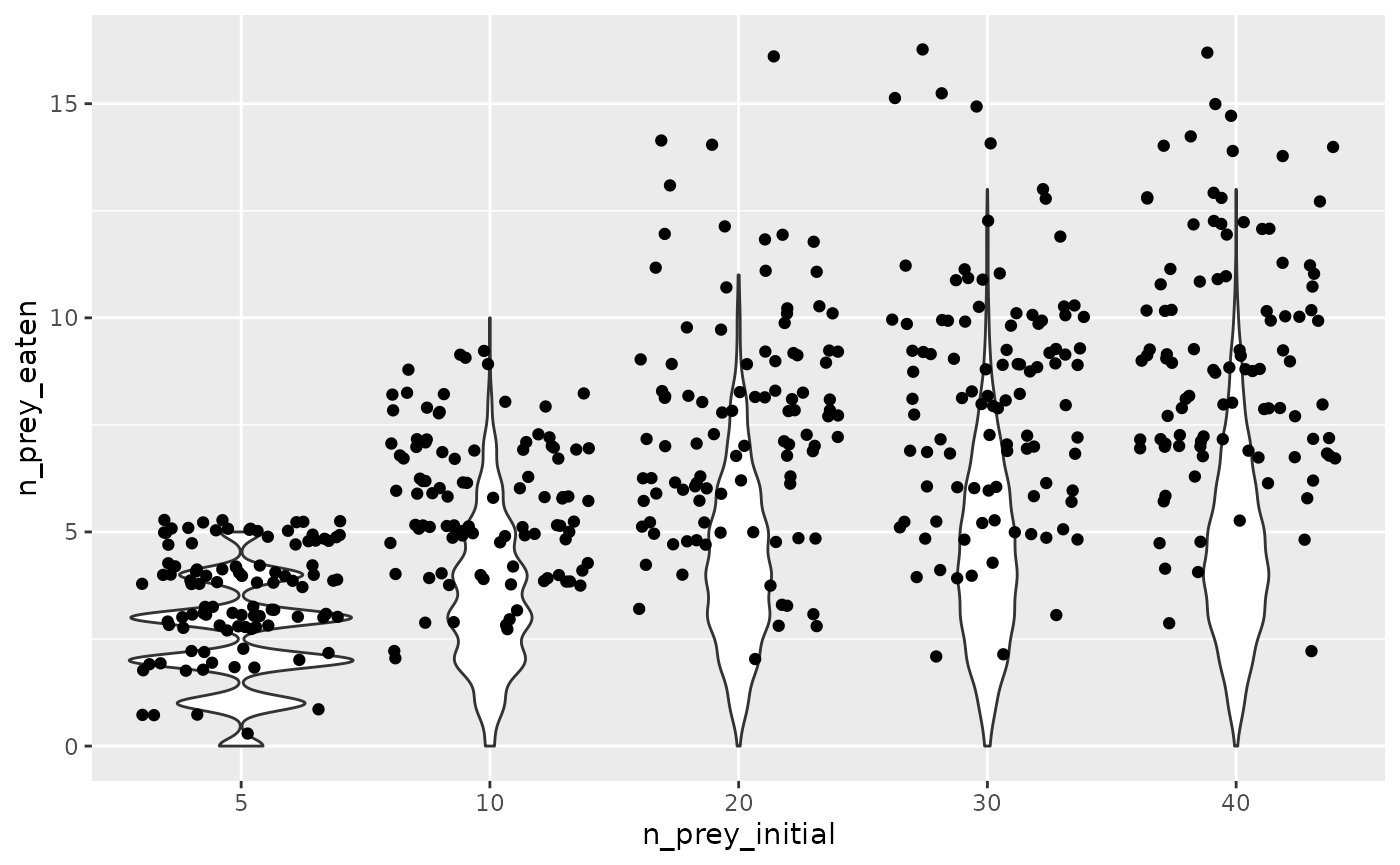
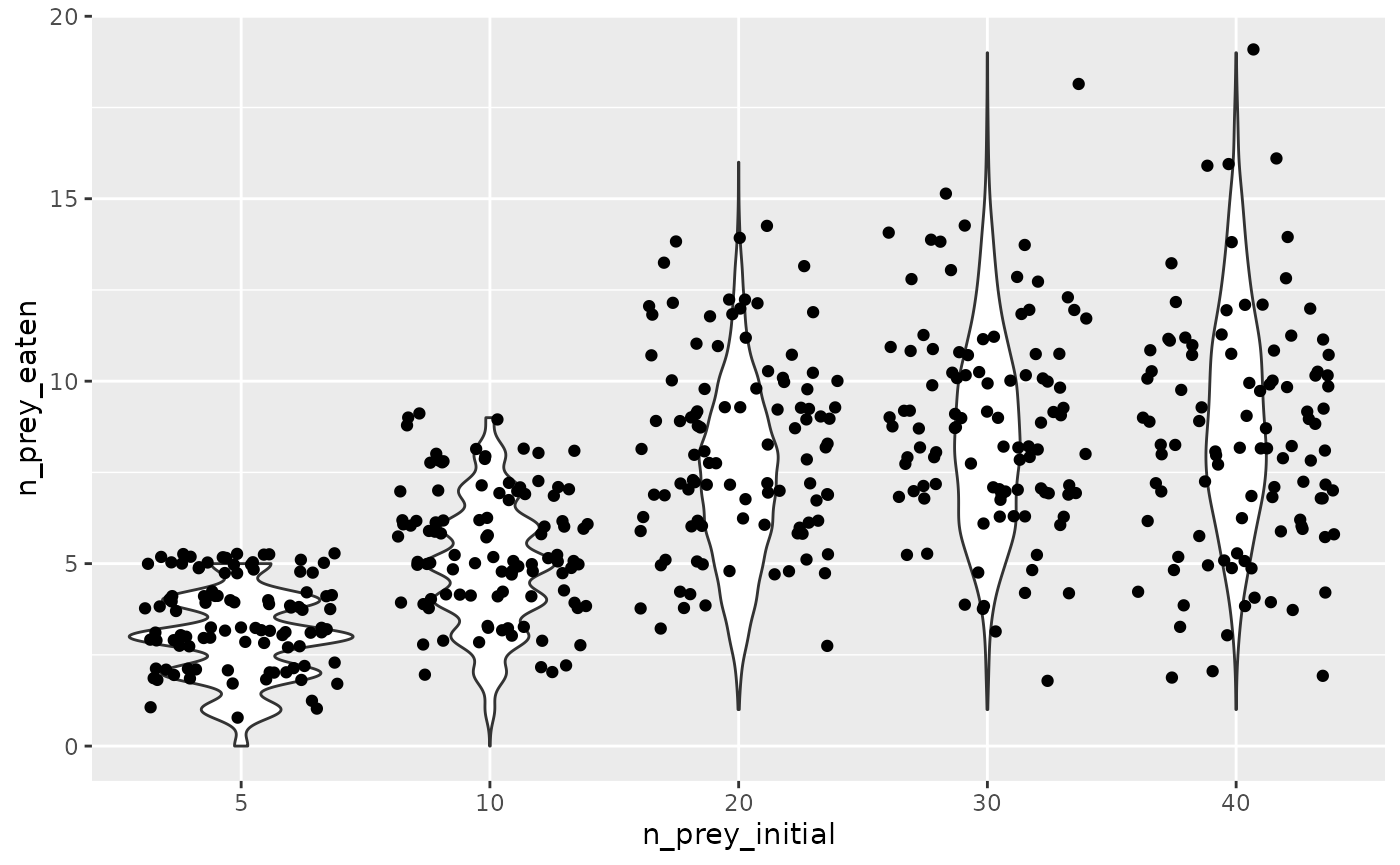
Deploying to gh-pages from @ ben18785/frbayes@850f72f2279b61a39ecb7daaa73278725f287bf1 🚀

diff --git a/reference/simulate.html b/reference/simulate.html
@@ -95,17 +95,17 @@ summarizing the results of the simulations. Each row represents a single simulat
 <span class="r-in"><span><span class="fu">simulate</span><span class="op">(</span><span class="va">n_replicates</span>, <span class="va">n_prey_initial</span>, <span class="va">time_max</span>, <span class="va">model</span>, <span class="va">parameters</span><span class="op">)</span></span></span>
 <span class="r-out co"><span class="r-pr">#&gt;</span> <span style="color: #949494;"># A tibble: 10 × 4</span></span>
 <span class="r-out co"><span class="r-pr">#&gt;</span>    replicate_id n_prey_initial n_prey_eaten n_prey_remaining</span>
-<span class="r-out co"><span class="r-pr">#&gt;</span>           <span style="color: #949494; font-style: italic;">&lt;int&gt;</span>          <span style="color: #949494; font-style: italic;">&lt;dbl&gt;</span>        <span style="color: #949494; font-style: italic;">&lt;dbl&gt;</span>            <span style="color: #949494; font-style: italic;">&lt;dbl&gt;</span></span>
-<span class="r-out co"><span class="r-pr">#&gt;</span> <span style="color: #BCBCBC;"> 1</span>            1            100           67               33</span>
-<span class="r-out co"><span class="r-pr">#&gt;</span> <span style="color: #BCBCBC;"> 2</span>            2            100           66               34</span>
-<span class="r-out co"><span class="r-pr">#&gt;</span> <span style="color: #BCBCBC;"> 3</span>            3            100           57               43</span>
-<span class="r-out co"><span class="r-pr">#&gt;</span> <span style="color: #BCBCBC;"> 4</span>            4            100           60               40</span>
-<span class="r-out co"><span class="r-pr">#&gt;</span> <span style="color: #BCBCBC;"> 5</span>            5            100           64               36</span>
-<span class="r-out co"><span class="r-pr">#&gt;</span> <span style="color: #BCBCBC;"> 6</span>            6            100           62               38</span>
+<span class="r-out co"><span class="r-pr">#&gt;</span>           <span style="color: #949494; font-style: italic;">&lt;int&gt;</span>          <span style="color: #949494; font-style: italic;">&lt;dbl&gt;</span>        <span style="color: #949494; font-style: italic;">&lt;dbl&gt;</span>            <span style="color: #949494; font-style: italic;">&lt;int&gt;</span></span>
+<span class="r-out co"><span class="r-pr">#&gt;</span> <span style="color: #BCBCBC;"> 1</span>            1            100           64               36</span>
+<span class="r-out co"><span class="r-pr">#&gt;</span> <span style="color: #BCBCBC;"> 2</span>            2            100           55               45</span>
+<span class="r-out co"><span class="r-pr">#&gt;</span> <span style="color: #BCBCBC;"> 3</span>            3            100           60               40</span>
+<span class="r-out co"><span class="r-pr">#&gt;</span> <span style="color: #BCBCBC;"> 4</span>            4            100           67               33</span>
+<span class="r-out co"><span class="r-pr">#&gt;</span> <span style="color: #BCBCBC;"> 5</span>            5            100           57               43</span>
+<span class="r-out co"><span class="r-pr">#&gt;</span> <span style="color: #BCBCBC;"> 6</span>            6            100           61               39</span>
 <span class="r-out co"><span class="r-pr">#&gt;</span> <span style="color: #BCBCBC;"> 7</span>            7            100           62               38</span>
-<span class="r-out co"><span class="r-pr">#&gt;</span> <span style="color: #BCBCBC;"> 8</span>            8            100           61               39</span>
-<span class="r-out co"><span class="r-pr">#&gt;</span> <span style="color: #BCBCBC;"> 9</span>            9            100           74               26</span>
-<span class="r-out co"><span class="r-pr">#&gt;</span> <span style="color: #BCBCBC;">10</span>           10            100           64               36</span>
+<span class="r-out co"><span class="r-pr">#&gt;</span> <span style="color: #BCBCBC;"> 8</span>            8            100           73               27</span>
+<span class="r-out co"><span class="r-pr">#&gt;</span> <span style="color: #BCBCBC;"> 9</span>            9            100           56               44</span>
+<span class="r-out co"><span class="r-pr">#&gt;</span> <span style="color: #BCBCBC;">10</span>           10            100           74               26</span>
 <span class="r-in"><span></span></span>
 </code></pre></div>
     </div>

diff --git a/reference/simulate_study.html b/reference/simulate_study.html
@@ -88,13 +88,11 @@ if any other input validations fail, the function will stop with an error messag
     <div class="section level2">
     <h2 id="ref-examples">Examples<a class="anchor" aria-label="anchor" href="#ref-examples"></a></h2>
     <div class="sourceCode"><pre class="sourceCode r"><code><span class="r-in"><span><span class="co"># Example usage (assuming appropriate model and parameters):</span></span></span>
-<span class="r-in"><span><span class="va">data</span> <span class="op">&lt;-</span> <span class="fu"><a href="https://rdrr.io/r/base/data.frame.html" class="external-link">data.frame</a></span><span class="op">(</span>prey_initial <span class="op">=</span> <span class="fu"><a href="https://rdrr.io/r/base/c.html" class="external-link">c</a></span><span class="op">(</span><span class="fl">10</span>, <span class="fl">20</span>, <span class="fl">30</span><span class="op">)</span>, n_replicates <span class="op">=</span> <span class="fu"><a href="https://rdrr.io/r/base/c.html" class="external-link">c</a></span><span class="op">(</span><span class="fl">100</span>, <span class="fl">100</span>, <span class="fl">100</span><span class="op">)</span><span class="op">)</span></span></span>
+<span class="r-in"><span><span class="va">data</span> <span class="op">&lt;-</span> <span class="fu"><a href="https://rdrr.io/r/base/data.frame.html" class="external-link">data.frame</a></span><span class="op">(</span>n_prey_initial <span class="op">=</span> <span class="fu"><a href="https://rdrr.io/r/base/c.html" class="external-link">c</a></span><span class="op">(</span><span class="fl">10</span>, <span class="fl">20</span>, <span class="fl">30</span><span class="op">)</span>, n_replicates <span class="op">=</span> <span class="fu"><a href="https://rdrr.io/r/base/c.html" class="external-link">c</a></span><span class="op">(</span><span class="fl">100</span>, <span class="fl">100</span>, <span class="fl">100</span><span class="op">)</span><span class="op">)</span></span></span>
 <span class="r-in"><span><span class="va">time_max</span> <span class="op">&lt;-</span> <span class="fl">10</span></span></span>
-<span class="r-in"><span><span class="va">model</span> <span class="op">&lt;-</span> <span class="fu">model_constant</span><span class="op">(</span><span class="op">)</span></span></span>
-<span class="r-err co"><span class="r-pr">#&gt;</span> <span class="error">Error in model_constant():</span> could not find function "model_constant"</span>
+<span class="r-in"><span><span class="va">model</span> <span class="op">&lt;-</span> <span class="fu"><a href="model_constant_rate.html">model_constant_rate</a></span><span class="op">(</span><span class="op">)</span></span></span>
 <span class="r-in"><span><span class="va">parameters</span> <span class="op">&lt;-</span> <span class="fu"><a href="https://rdrr.io/r/base/list.html" class="external-link">list</a></span><span class="op">(</span>rate <span class="op">=</span> <span class="fl">0.1</span><span class="op">)</span></span></span>
 <span class="r-in"><span><span class="va">result</span> <span class="op">&lt;-</span> <span class="fu">simulate_study</span><span class="op">(</span><span class="va">data</span>, <span class="va">time_max</span>, <span class="va">model</span>, <span class="va">parameters</span><span class="op">)</span></span></span>
-<span class="r-err co"><span class="r-pr">#&gt;</span> <span class="error">Error in simulate_study(data, time_max, model, parameters):</span> `data` must be a dataframe containing columns 'n_prey_initial' and 'n_replicates'.</span>
 </code></pre></div>
     </div>
   </main><aside class="col-md-3"><nav id="toc" aria-label="Table of contents"><h2>On this page</h2>

diff --git a/articles/introduction_to_frbayes.html b/articles/introduction_to_frbayes.html
@@ -148,7 +148,7 @@ fixed at its true value.</p>
 <span>    parameters <span class="op">=</span> <span class="va">parameters</span>,</span>
 <span>    data <span class="op">=</span> <span class="va">df</span>,</span>
 <span>    model <span class="op">=</span> <span class="fu"><a href="../reference/model_rogersII.html">model_rogersII</a></span><span class="op">(</span><span class="op">)</span>,</span>
-<span>    n_replicates <span class="op">=</span> <span class="fl">1000</span><span class="op">)</span></span>
+<span>    n_replicates <span class="op">=</span> <span class="fl">10000</span><span class="op">)</span></span>
 <span><span class="op">}</span></span>
 <span></span>
 <span><span class="co"># plot</span></span>
@@ -237,7 +237,7 @@ which we mark as a cross on the 2D likelihood surface.</p>
 <span><span class="va">a</span> <span class="op">&lt;-</span> <span class="va">fit</span><span class="op">$</span><span class="va">par</span><span class="op">[</span><span class="fl">1</span><span class="op">]</span></span>
 <span><span class="va">h</span> <span class="op">&lt;-</span> <span class="va">fit</span><span class="op">$</span><span class="va">par</span><span class="op">[</span><span class="fl">2</span><span class="op">]</span></span>
 <span><span class="fu"><a href="https://rdrr.io/r/base/print.html" class="external-link">print</a></span><span class="op">(</span><span class="fu"><a href="https://rdrr.io/r/base/paste.html" class="external-link">paste0</a></span><span class="op">(</span><span class="st">"a = "</span>, <span class="va">a</span>, <span class="st">", h = "</span>, <span class="va">h</span><span class="op">)</span><span class="op">)</span></span>
-<span><span class="co">#&gt; [1] "a = 1.49278548502095, h = 0.200242097818089"</span></span>
+<span><span class="co">#&gt; [1] "a = 1.14689669678512, h = 0.0828378168764797"</span></span>
 <span></span>
 <span><span class="co"># overlay on 2D plot</span></span>
 <span><span class="fu"><a href="https://ggplot2.tidyverse.org/reference/ggplot.html" class="external-link">ggplot</a></span><span class="op">(</span><span class="va">parameter_combinations</span>, <span class="fu"><a href="https://ggplot2.tidyverse.org/reference/aes.html" class="external-link">aes</a></span><span class="op">(</span>x <span class="op">=</span> <span class="va">a</span>, y <span class="op">=</span> <span class="va">h</span>, fill <span class="op">=</span> <span class="va">z</span><span class="op">)</span><span class="op">)</span> <span class="op">+</span></span>

diff --git a/reference/log_probability.html b/reference/log_probability.html
@@ -121,7 +121,7 @@ prey counts.</p>
 <span class="r-in"><span><span class="va">model</span> <span class="op">&lt;-</span> <span class="kw">function</span><span class="op">(</span><span class="va">prey</span>, <span class="va">parameters</span><span class="op">)</span> <span class="op">{</span> <span class="va">parameters</span><span class="op">$</span><span class="va">rate</span> <span class="op">*</span> <span class="va">prey</span> <span class="op">}</span></span></span>
 <span class="r-in"><span><span class="va">log_prob</span> <span class="op">&lt;-</span> <span class="fu">log_probability</span><span class="op">(</span><span class="va">parameters</span>, <span class="va">data</span>, <span class="va">model</span>, time_max <span class="op">=</span> <span class="fl">1</span>, n_replicates <span class="op">=</span> <span class="fl">1000</span>, alpha <span class="op">=</span> <span class="fl">1</span><span class="op">)</span></span></span>
 <span class="r-in"><span><span class="fu"><a href="https://rdrr.io/r/base/print.html" class="external-link">print</a></span><span class="op">(</span><span class="va">log_prob</span><span class="op">)</span></span></span>
-<span class="r-out co"><span class="r-pr">#&gt;</span> [1] -27.11776</span>
+<span class="r-out co"><span class="r-pr">#&gt;</span> [1] -29.60267</span>
 <span class="r-in"><span></span></span>
 </code></pre></div>
     </div>
